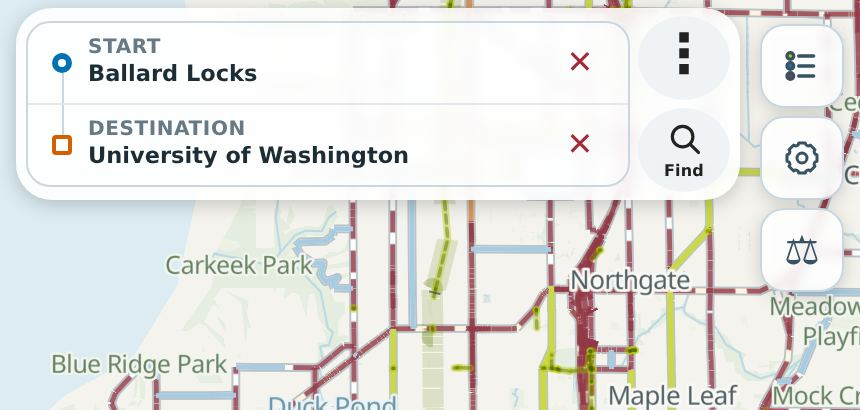
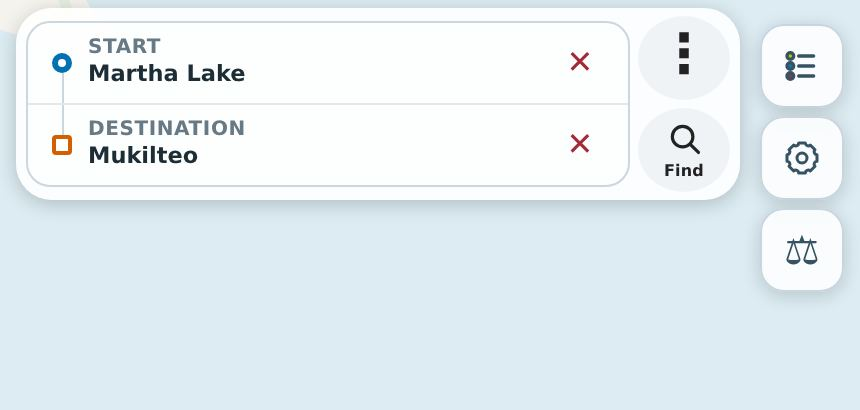
Tour rides Martha Lake -> Mukilteo, and teaches the colors and badges (.716)
The tour's trip is now one real commute whose portfolio splits perfectly:
the fastest option (9.6 mi) rides 2.8 failing miles up the arterial under
a chain of warning badges, while the safer option (14.5 mi) rides
designated routes and trails with ZERO failing miles. Two new steps --
'The fast way…' / '…or the safer way' -- share one camera fitted to the
route, so swiping between them flips the comparison in place. The welcome
hero is the safer route's waterfront arrival, framed by fitting the route
tail rather than a hardcoded center; the road-card step taps the fast
option's longest failing stretch (found from the live route-fail source,
not coordinates), and the card now also shows the directional shoulder
row: 0 ft your direction, 4 ft the other way. The navigation scene rides
the safer route ('Turn left to stay on Interurban Trail').

Two new summary steps, both borrowed rather than copied so they can never
drift: 'What the colors mean' renders the five ROUTE_CATEGORY_LABELS rows
with the route card's own swatch classes (de-scoped via :is()) plus a
one-phrase gloss each, and 'Warning icons on your route' calls the same
renderActiveRouteIconItems() the layers-panel guide uses -- the tour picked
up the guide's newly expanded per-icon descriptions automatically. The
tour test now pins both legends against their sources.

Ten steps; tour-colors/tour-warning retire, tour-fast/tour-safer arrive
(sw precache follows, v694).
[…]

diff --git a/app.js b/app.js
@@ -15,7 +15,7 @@
  *     used for color. Re-scoring is instant and client-side (no refetch).
  */
 
-const APP_VERSION = '2026-08-15.715';
+const APP_VERSION = '2026-08-15.716';
 // All three defined once in build-version.js, which sw.js importScripts() as
 // well. The version numbers used to be spelled out separately here with
 // comments pointing at the other file, and the URL still was -- in a spelling
@@ -4926,12 +4926,23 @@ function openRouteTips() {
 // UI: they must look right before the rider has a location fix, a route, or
 // any preset chosen. Reshoot with the capture script when the UI they show
 // changes materially (see docs in onboarding/).
+// One-phrase meaning per route category, for the tour's color legend. The
+// keys, labels, and swatch styling come from ROUTE_CATEGORY_LABELS and the
+// shared .rc-category-swatch classes — only these glosses live here.
+const ONBOARDING_CATEGORY_NOTES = {
+  trail: 'Dedicated paths away from traffic.',
+  bike: 'Streets with real bike infrastructure.',
+  pass: 'Ordinary roads that meet your rules.',
+  caution: 'Meets your rules, with a caveat.',
+  fail: 'Breaks at least one of your rules.',
+};
+
 const ONBOARDING_STEPS = [
   {
     img: 'onboarding/tour-welcome.jpg',
-    alt: 'A route drawn across the city over safety-colored streets',
+    alt: 'A green route descending through a gulch to the waterfront',
     title: 'Welcome to Just Rolling Along',
-    copy: 'Bike routing that takes safety seriously. Every road and trail is scored against rules you control — and the whole map works offline. Here’s the one-minute tour.',
+    copy: 'Bike routing that takes safety seriously. Every road and trail is scored against rules you control — and the whole map works offline. Here’s the quick tour.',
   },
   {
     img: 'onboarding/tour-plan.jpg',
@@ -4941,21 +4952,31 @@ const ONBOARDING_STEPS = [
   },
   {
     img: 'onboarding/tour-routes.jpg',
-    alt: 'The route chooser: options A through E with distance, climb, and route makeup',
+    alt: 'The route chooser: lettered options with distance, climb, and route makeup',
     title: 'Compare your options',
     copy: 'Each search offers up to six routes with a Suggested pick — the letters are names, not grades. Every option shows distance, climbing, and its makeup: trails, bike lanes, roads that pass your rules, and any that fail them. Route Details breaks it down road by road.',
   },
   {
-    img: 'onboarding/tour-colors.jpg',
-    alt: 'City streets colored blue, olive-green, orange, and dashed dark red',
-    title: 'The map shows safety at a glance',
-    copy: 'Streets are colored by your rules: blue passes, olive-green marks designated bike routes and trails, orange needs caution, and dark-red dashes fail. Change a rule in Settings and the whole map recolors.',
+    img: 'onboarding/tour-fast.jpg',
+    alt: 'The fastest route riding an arterial, with red dashed stretches and warning badges',
+    title: 'The fast way…',
+    copy: 'The quickest option often rides the big arterial. Nothing is forbidden — but every stretch that fails your rules is dashed dark red and badged, so you can see exactly what the shortcut costs.',
   },
   {
-    img: 'onboarding/tour-warning.jpg',
-    alt: 'A route with a long dark-red dashed stretch marked by a warning badge',
-    title: 'Red stretches are never hidden',
-    copy: 'A route may still use a road that fails your rules — often there’s no other way through. That stretch is drawn in dark-red dashes with a warning badge, so you see it before you commit, not when you’re on it.',
+    img: 'onboarding/tour-safer.jpg',
+    alt: 'The same trip on a safer route: designated bike routes and trails nearly the whole way',
+    title: '…or the safer way',
+    copy: 'The same trip, a few minutes more: designated bike routes and trails nearly the whole way. Every search offers both ends of this trade — you pick.',
+  },
+  {
+    legend: 'levels',
+    title: 'What the colors mean',
+    copy: 'Every road and trail — on a route or not — is scored against your rules and drawn in one of five colors. Change a rule in Settings and the whole map recolors.',
+  },
+  {
+    legend: 'icons',
+    title: 'Warning icons on your route',
+    copy: 'Badges along a route flag the spots worth knowing about before you reach them:',
   },
   {
     img: 'onboarding/tour-road.jpg',
@@ -5006,6 +5027,32 @@ function buildOnboarding() {
     const copy = document.createElement('p');
     copy.textContent = step.copy;
     section.append(title, copy);
+    if (step.legend === 'levels') {
+      const host = document.createElement('div');
+      host.className = 'onboarding-legend';
+      for (const [key, label] of ROUTE_CATEGORY_LABELS) {
+        const row = document.createElement('div');
+        row.className = 'onboarding-legend-row';
+        const swatch = document.createElement('span');
+        swatch.className = `rc-category-swatch ${key}`;
+        swatch.setAttribute('aria-hidden', 'true');
+        const text = document.createElement('span');
+        const name = document.createElement('strong');
+        name.textContent = label;
+        const note = document.createElement('small');
+        note.textContent = ONBOARDING_CATEGORY_NOTES[key] || '';
+        text.append(name, note);
+        row.append(swatch, text);
+        host.appendChild(row);
+      }
+      section.appendChild(host);
+    }
+    if (step.legend === 'icons') {
+      const host = document.createElement('div');
+      host.className = 'onboarding-legend onboarding-icon-legend';
+      renderActiveRouteIconItems(host);
+      section.appendChild(host);
+    }
     if (step.preset) {
       const host = document.createElement('div');
       host.className = 'onboarding-presets';
@@ -13855,6 +13902,12 @@ const ACTIVE_ROUTE_ICON_DEFINITIONS = [
 function buildActiveRouteIconLegend() {
   const host = document.getElementById('activeRouteIconLegendItems');
   if (!host || host.childElementCount) return;
+  renderActiveRouteIconItems(host);
+}
+
+// Renders the warning-icon rows into any host (the layers-panel legend and
+// the app tour both call this), so the tour can never drift from the legend.
+function renderActiveRouteIconItems(host) {
   const images = new Map();
   const imageSink = {
     hasImage: (id) => images.has(id),

diff --git a/styles.css b/styles.css
@@ -305,17 +305,17 @@ button, .panel, #routeBar, .map-dialog { touch-action: manipulation; }
 #routeCard .rc-category-caution, #routeCard .rc-category-caution b { color: #813e00; }
 #routeCard .rc-category-fail, #routeCard .rc-category-fail b { color: var(--verdict-fail); }
 #routeCard .rc-category-swatch { display: block; width: 12px; height: 8px; border-radius: 2px; }
-#routeCard .rc-category-swatch.trail { height: 9px; background-color: var(--bike-network); background-image: radial-gradient(circle, var(--trail-dots) 0 1.4px, transparent 1.6px); background-position: 1px center; background-size: 5px 8px; }
-#routeCard .rc-category-swatch.bike { background: var(--bike-network); }
-#routeCard .rc-category-swatch.pass { background: var(--verdict-pass); }
-#routeCard .rc-category-swatch.caution { background: var(--verdict-caution); }
-#routeCard .rc-category-swatch.fail {
+:is(#routeCard, .onboarding-legend) .rc-category-swatch.trail { height: 9px; background-color: var(--bike-network); background-image: radial-gradient(circle, var(--trail-dots) 0 1.4px, transparent 1.6px); background-position: 1px center; background-size: 5px 8px; }
+:is(#routeCard, .onboarding-legend) .rc-category-swatch.bike { background: var(--bike-network); }
+:is(#routeCard, .onboarding-legend) .rc-category-swatch.pass { background: var(--verdict-pass); }
+:is(#routeCard, .onboarding-legend) .rc-category-swatch.caution { background: var(--verdict-caution); }
+:is(#routeCard, .onboarding-legend) .rc-category-swatch.fail {
   position: relative;
   height: 9px;
   border: 1px solid #e5a6ad;
   background: #fff4f5;
 }
-#routeCard .rc-category-swatch.fail::after {
+:is(#routeCard, .onboarding-legend) .rc-category-swatch.fail::after {
   position: absolute;
   top: 50%;
   right: 1px;
@@ -1555,6 +1555,17 @@ body.navigation-active #routeBar { display: none; }
 .onboarding-preset span { color: #52667a; font: 600 11.5px/1.35 system-ui; }
 .onboarding-preset.selected { border-color: #0a66c2; background: #eef6fd; }
 .onboarding-preset.selected strong::after { content: " ✓"; color: #0a66c2; }
+/* The tour's two legend steps reuse the app's own building blocks: the
+   .rc-category-swatch classes (colors defined once, shared with the route
+   card via :is()) and renderActiveRouteIconItems() for the warning icons. */
+.onboarding-legend { display: grid; gap: 7px; margin: 10px 0 4px; }
+.onboarding-legend-row { display: flex; align-items: center; gap: 11px; min-height: 40px; padding: 6px 11px; border: 1px solid #dde6eb; border-radius: 10px; background: #fbfdfe; }
+.onboarding-legend .rc-category-swatch { display: block; flex: none; width: 44px; height: 10px; border-radius: 3px; }
+.onboarding-legend-row strong { display: block; color: #22384a; font: 780 12.5px/1.2 system-ui; }
+.onboarding-legend-row small { display: block; margin-top: 1px; color: #52667a; font: 600 11px/1.3 system-ui; }
+.onboarding-icon-legend { grid-template-columns: repeat(2, minmax(0, 1fr)); gap: 6px; }
+.onboarding-icon-legend .active-route-icon-item strong { font: 780 11.5px/1.15 system-ui; color: #22384a; display: block; }
+.onboarding-icon-legend .active-route-icon-item small { display: block; margin-top: 1px; color: #52667a; font: 600 9.5px/1.25 system-ui; }
 .onboarding-foot { flex: none; display: flex; gap: 8px; padding: 10px 16px max(12px, env(safe-area-inset-bottom)); }
 .onboarding-back { flex: 1; min-height: 42px; border: 1px solid #cbd9e1; border-radius: 11px; background: #fff; color: #526675; font: 750 13px system-ui; cursor: pointer; touch-action: manipulation; }
 .onboarding-back:disabled { opacity: .4; cursor: default; }

diff --git a/sw.js b/sw.js
@@ -25,7 +25,7 @@ const stateFile = (name) => `${DATA_ROOT}/${name}`;
 // invisible to everyone who already has the app. v642 was maps/states.js
 // gaining Oregon (that file is SHELL, not data: it is the index naming which
 // states exist). v643 was app.js and styles.css; v644 app.js; v645 app.js and palette.js.
-const VERSION = 'v693'; // bump when app shell changes
+const VERSION = 'v694'; // bump when app shell changes
 const SHELL_CACHE = `shell-${VERSION}`;
 // Keep the large offline dataset across ordinary UI-only app releases.
 //
@@ -71,8 +71,8 @@ const SHELL = [
   './onboarding/tour-welcome.jpg',
   './onboarding/tour-plan.jpg',
   './onboarding/tour-routes.jpg',
-  './onboarding/tour-colors.jpg',
-  './onboarding/tour-warning.jpg',
+  './onboarding/tour-fast.jpg',
+  './onboarding/tour-safer.jpg',
   './onboarding/tour-road.jpg',
   './onboarding/tour-navigate.jpg',
 ];
